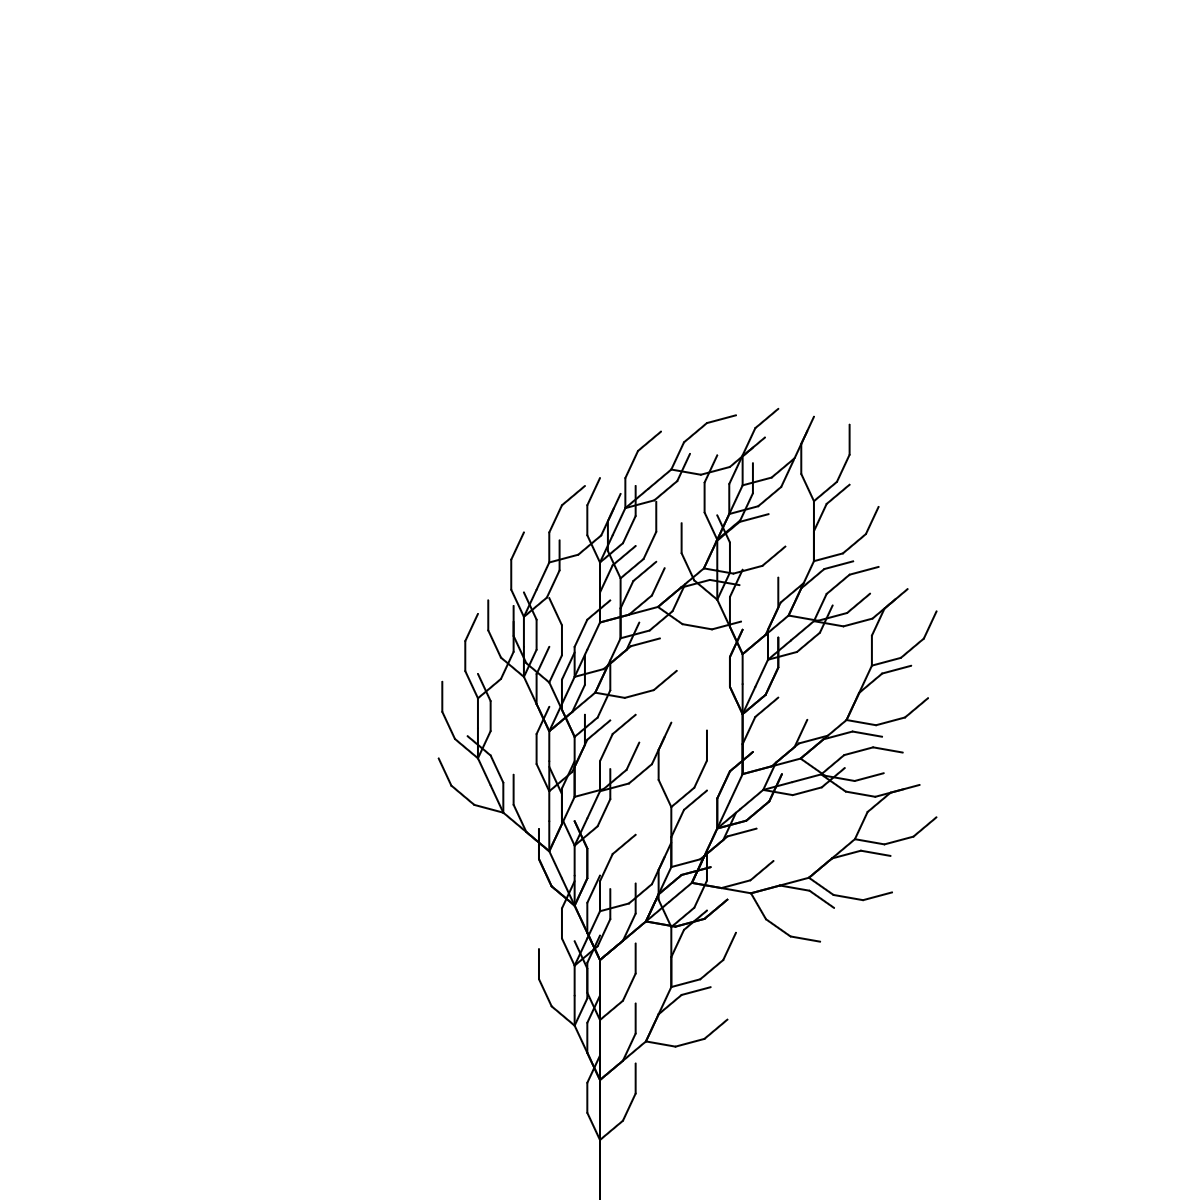
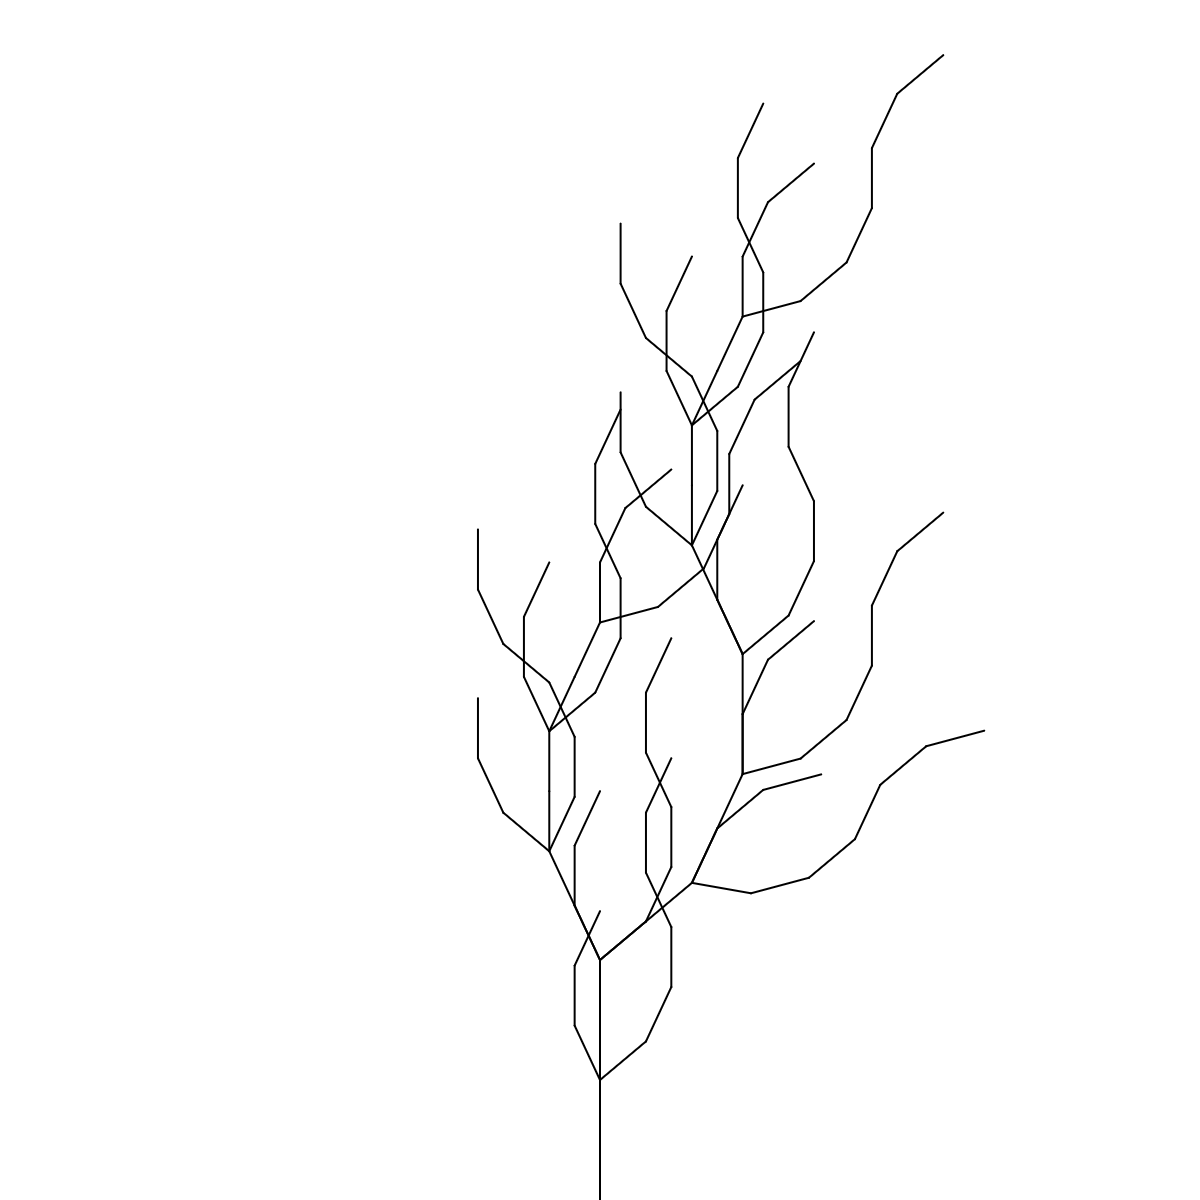
update

diff --git a/src/modal/viewerPanel.js b/src/modal/viewerPanel.js
@@ -148,10 +148,12 @@ export function createViewerPanel({ nodeId, getNode, onRequestClose }) {
   controls.className = "file-controls";
 
   const tidyBtn = squareBtn("Tidy", "Tidy code (Prettier)");
+  const downloadBtn = squareBtn("Download", "Download all files as ZIP");
   const runBtn = squareBtn("Run", "Run with current code");
   const stopBtn = squareBtn("Stop", "Pause (noLoop) and keep last frame");
 
   controls.appendChild(tidyBtn);
+  controls.appendChild(downloadBtn);
   controls.appendChild(runBtn);
   controls.appendChild(stopBtn);
 
@@ -294,6 +296,29 @@ export function createViewerPanel({ nodeId, getNode, onRequestClose }) {
       if (consoleDrawer) {
         consoleDrawer.append("error", [errorMsg]);
       }
+    }
+  });
+
+  downloadBtn.addEventListener("click", async () => {
+    // Capture current editor buffer before packaging files.
+    if (codeEditor) draft.files[activePath] = codeEditor.getValue();
+
+    downloadBtn.disabled = true;
+    const prevLabel = downloadBtn.textContent;
+    downloadBtn.textContent = "Zipping...";
+
+    try {
+      const zipBlob = await createSketchZipBlob(draft.files, consoleDrawer);
+      const safeName = toSafeFilename(draft.title || node.title || "sketch");
+      triggerBlobDownload(zipBlob, `${safeName}.zip`);
+    } catch (e) {
+      console.error(e);
+      const errorMsg = e?.message || "Download failed. Check console.";
+      alert(errorMsg);
+      if (consoleDrawer) consoleDrawer.append("error", [errorMsg]);
+    } finally {
+      downloadBtn.disabled = false;
+      downloadBtn.textContent = prevLabel;
     }
   });
 
@@ -616,6 +641,68 @@ function chooseInitialActivePath(files) {
 function extensionOf(p) {
   const m = /\.([^.]+)$/.exec(p || "");
   return m ? m[1].toLowerCase() : "";
+}
+
+async function createSketchZipBlob(files, consoleDrawer) {
+  const jszipMod = await import("https://cdn.jsdelivr.net/npm/jszip@3.10.1/+esm");
+  const JSZipCtor = jszipMod.default || jszipMod.JSZip || jszipMod;
+  const zip = new JSZipCtor();
+
+  const entries = Object.entries(files || {});
+  for (const [path, content] of entries) {
+    if (!path) continue;
+
+    const uploadedPath = uploadedMarkerPath(content);
+    if (uploadedPath) {
+      try {
+        const res = await fetch(uploadedPath);
+        if (!res.ok) {
+          throw new Error(`HTTP ${res.status}`);
+        }
+        const blob = await res.blob();
+        zip.file(path, blob);
+      } catch (err) {
+        // Keep export resilient even if temporary upload was cleaned up/unreachable.
+        const fallback = `/* Could not fetch uploaded file from: ${uploadedPath}\nReason: ${err?.message || "Unknown error"} */\n`;
+        zip.file(path, fallback);
+        if (consoleDrawer) {
+          consoleDrawer.append("warn", [`Download fallback used for ${path}: ${uploadedPath}`]);
+        }
+      }
+      continue;
+    }
+
+    zip.file(path, content ?? "");
+  }
+
+  return zip.generateAsync({ type: "blob" });
+}
+
+function uploadedMarkerPath(content) {
+  if (typeof content !== "string") return null;
+  const marker = /^#UPLOADED_FILE#([\s\S]+)#$/.exec(content.trim());
+  return marker ? marker[1] : null;
+}
+
+function triggerBlobDownload(blob, fileName) {
+  const url = URL.createObjectURL(blob);
+  const a = document.createElement("a");
+  a.href = url;
+  a.download = fileName;
+  document.body.appendChild(a);
+  a.click();
+  a.remove();
+  URL.revokeObjectURL(url);
+}
+
+function toSafeFilename(name) {
+  const safe = String(name || "sketch")
+    .trim()
+    .replace(/[\\/:*?"<>|]+/g, "-")
+    .replace(/\s+/g, "-")
+    .replace(/-+/g, "-")
+    .replace(/^[-.]+|[-.]+$/g, "");
+  return safe || "sketch";
 }
 
 function squareBtn(text, title) {
